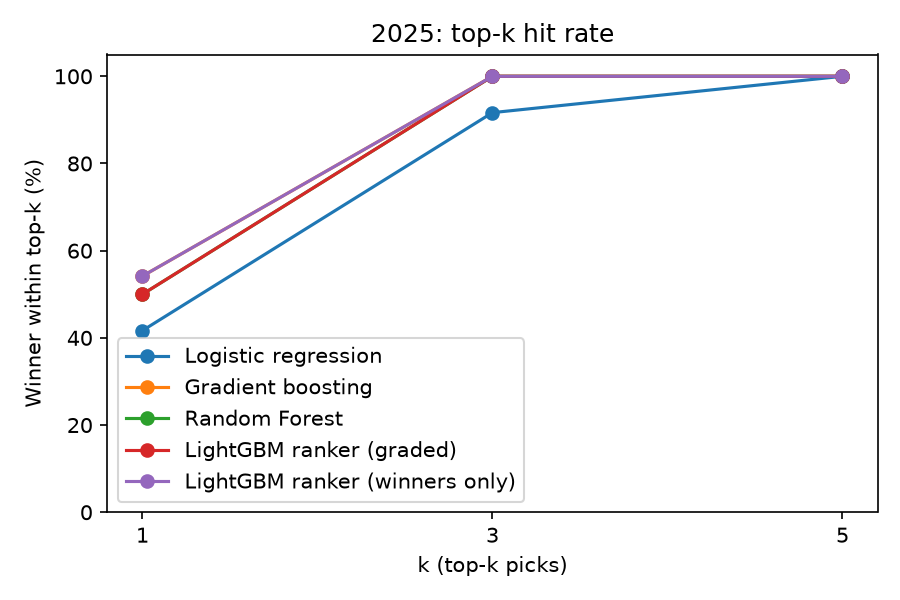
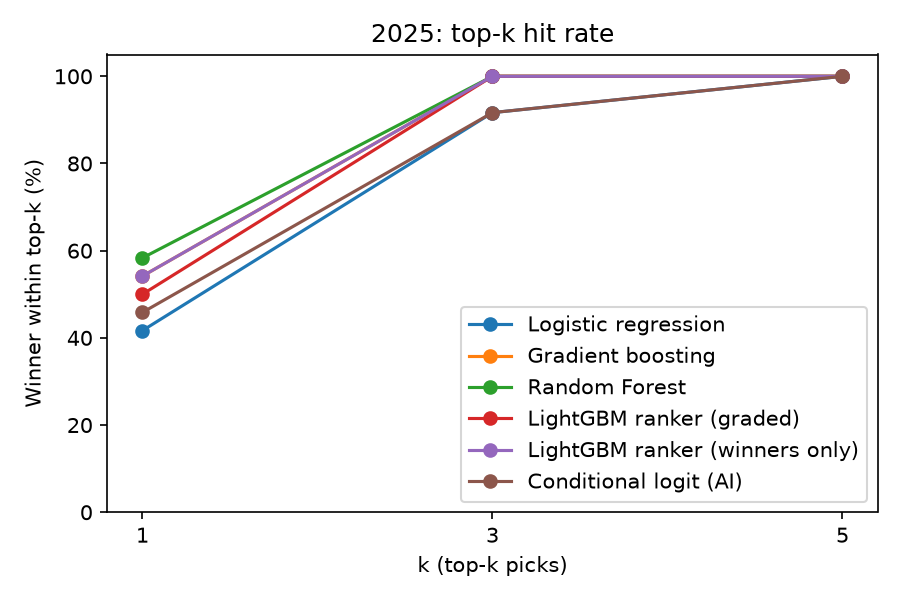
Add AI-generated conditional logit model
Add conditional_logit.py, a McFadden conditional logit that applies a
softmax over each race's field so win probabilities sum to 1 per race
by construction. The file was written by an AI assistant (Claude) and
is marked as such in its header, the comparison output and the README.

- Register the model in compare_models.py as "Conditional logit (AI)"
- Regenerate plots to include it
- Document method and results in the README (42/70, 60.0%, tied best)
- Fix .gitignore (trailing lines were UTF-16 encoded, so __pycache__
  was never ignored) and untrack the committed .pyc files

diff --git a/conditional_logit.py b/conditional_logit.py
@@ -1,0 +1,135 @@
+"""
+Conditional logit (McFadden choice model) for F1 race winners.
+
+============================================================================
+  AI-GENERATED FILE
+  This entire file was written by an AI assistant (Claude, by Anthropic,
+  via Claude Code), not by the repository owner. It was added on request
+  as an extra model for comparison. Review it like any third-party code.
+============================================================================
+
+Why this model?
+    The other classifiers in this project score every driver independently
+    ("does driver X win?") and only afterwards normalize the scores within a
+    race. A conditional logit models the actual question directly: *which one
+    driver out of this race's field wins?*
+
+        P(driver i wins race r) = exp(x_i . w) / sum_{j in r} exp(x_j . w)
+
+    The softmax is taken over the drivers of a single race, so the
+    probabilities sum to 100% per race by construction, and the model learns
+    from comparisons between drivers in the same race, not between drivers in
+    different races. There is no intercept: it would cancel out in the softmax.
+
+    The weights are fitted by maximum likelihood with an L2 penalty, using
+    L-BFGS and an analytic gradient. Only numpy and scipy are needed.
+
+Usage:
+    python conditional_logit.py     # multi-season backtest, same split as compare_models.py
+"""
+
+import numpy as np
+import pandas as pd
+from scipy.optimize import minimize
+from sklearn.impute import SimpleImputer
+from sklearn.preprocessing import StandardScaler
+
+from train_predictor import FEATURES
+
+DATA_PATH = "data/f1_features.csv"
+TEST_SEASONS = [2023, 2024, 2025]
+
+
+class ConditionalLogit:
+    """Softmax-within-race logit. AI-generated (see the file header)."""
+
+    def __init__(self, l2=1.0):
+        self.l2 = l2
+        self.imputer = SimpleImputer(strategy="median")
+        self.scaler = StandardScaler()
+        self.coef_ = None
+
+    def _design(self, frame, fit):
+        values = frame[FEATURES]
+        if fit:
+            return self.scaler.fit_transform(self.imputer.fit_transform(values))
+        return self.scaler.transform(self.imputer.transform(values))
+
+    @staticmethod
+    def _race_softmax(utility, race_codes, n_races):
+        # Subtract each race's max utility for numerical stability.
+        race_max = np.full(n_races, -np.inf)
+        np.maximum.at(race_max, race_codes, utility)
+        exp = np.exp(utility - race_max[race_codes])
+        race_sum = np.bincount(race_codes, weights=exp, minlength=n_races)
+        return exp / race_sum[race_codes], race_max, race_sum
+
+    def fit(self, train):
+        # Races without exactly one recorded winner carry no usable signal.
+        winners_per_race = train.groupby("race_id")["winner"].transform("sum")
+        train = train[winners_per_race == 1]
+
+        X = self._design(train, fit=True)
+        y = train["winner"].to_numpy(dtype=float)
+        race_codes, _ = pd.factorize(train["race_id"])
+        n_races = race_codes.max() + 1
+
+        def loss_and_grad(w):
+            utility = X @ w
+            prob, race_max, race_sum = self._race_softmax(utility, race_codes, n_races)
+            log_norm = race_max + np.log(race_sum)  # log-sum-exp per race
+            nll = log_norm.sum() - (y * utility).sum()
+            grad = X.T @ (prob - y)
+            return (nll + 0.5 * self.l2 * w @ w) / n_races, (grad + self.l2 * w) / n_races
+
+        result = minimize(loss_and_grad, np.zeros(X.shape[1]), jac=True, method="L-BFGS-B")
+        if not result.success:
+            raise RuntimeError(f"Conditional logit did not converge: {result.message}")
+        self.coef_ = result.x
+        return self
+
+    def predict(self, test):
+        scored = test.copy()
+        utility = self._design(test, fit=False) @ self.coef_
+        race_codes, _ = pd.factorize(test["race_id"])
+        prob, _, _ = self._race_softmax(utility, race_codes, race_codes.max() + 1)
+        scored["win_probability"] = prob
+        return scored
+
+
+def conditional_logit_predictor(l2=1.0):
+    """Adapter with the same (train, test) -> scored signature as compare_models.py."""
+    def run(train, test):
+        return ConditionalLogit(l2=l2).fit(train).predict(test)
+    return run
+
+
+def main():
+    data = pd.read_csv(DATA_PATH, parse_dates=["date"])
+    total_hits = total_races = 0
+
+    print("Conditional logit (AI-generated model), expanding-window backtest")
+    for season in TEST_SEASONS:
+        train = data[data["season"] < season]
+        test = data[data["season"] == season]
+        model = ConditionalLogit().fit(train)
+        scored = model.predict(test)
+
+        top_picks = (
+            scored.sort_values(["race_id", "win_probability", "grid_position"], ascending=[True, False, True])
+            .drop_duplicates("race_id", keep="first")
+        )
+        hits, n = int(top_picks["winner"].sum()), len(top_picks)
+        total_hits += hits
+        total_races += n
+        winner_prob = scored.loc[scored["winner"] == 1, "win_probability"].mean()
+        print(f"  {season}: {hits}/{n} ({hits / n:.1%}), avg prob on winner {winner_prob:.1%}")
+
+    print(f"  Total: {total_hits}/{total_races} ({total_hits / total_races:.1%})")
+    print("\nCoefficients from the last fit (standardized features; positive = higher value raises win chance):")
+    for name, coef in zip(FEATURES, model.coef_):
+        print(f"  {name:28s} {coef:+.3f}")
+
+
+if __name__ == "__main__":
+    main()

diff --git a/compare_models.py b/compare_models.py
@@ -7,6 +7,7 @@ from sklearn.preprocessing import StandardScaler
 
 from train_predictor import FEATURES, normalize_within_race
 from ranker import fit_ranker, predict_ranker
+from conditional_logit import conditional_logit_predictor  # AI-generated model
 
 DATA_PATH = "data/f1_features.csv"
 TEST_SEASONS = [2023, 2024, 2025]
@@ -52,7 +53,8 @@ def make_models():
             ))
         ])),
         "LightGBM ranker (graded)": ranker_predictor(RANKER_PARAMS, graded=True),
-        "LightGBM ranker (winners only)": ranker_predictor(RANKER_PARAMS, graded=False)
+        "LightGBM ranker (winners only)": ranker_predictor(RANKER_PARAMS, graded=False),
+        "Conditional logit (AI)": conditional_logit_predictor(l2=1.0),
     }
 
 

diff --git a/README.md b/README.md
@@ -4,7 +4,7 @@ Can a simple machine-learning model predict the winner of a Formula 1 race **bef
 
 This project downloads race results from the Jolpica-F1 API, builds leakage-free features, and compares several models with a time-aware evaluation on the 2023, 2024 and 2025 seasons.
 
-**Short answer:** not convincingly. Over 70 test races the best model (random forest, 60.0%) is one race ahead of the pole-sitter baseline (58.6%), which is well within noise. See [Results](#results).
+**Short answer:** not convincingly. Over 70 test races the best models (random forest and the AI-added conditional logit, both 60.0%) are one race ahead of the pole-sitter baseline (58.6%), which is well within noise. See [Results](#results).
 
 ## Data
 
@@ -33,7 +33,8 @@ Run the scripts in this order:
 | 3 | `python naive_baseline.py` | Prints the "always predict no winner" accuracy and the pole-sitter hit rate. |
 | 4 | `python train_predictor.py` | Trains one logistic-regression model, tests on 2025, prints the latest race's win probabilities. |
 | 5 | `python compare_models.py` | Compares all models over 2023, 2024 and 2025. |
-| 6 | `python plots.py` | Saves the plots in `plots/` (2025 season). |
+| 6 | `python conditional_logit.py` | 🤖 Runs only the AI-generated conditional-logit model and prints its coefficients. |
+| 7 | `python plots.py` | Saves the plots in `plots/` (2025 season). |
 
 ## Method
 
@@ -56,6 +57,7 @@ The rolling means use `shift(1)`, so a race never sees its own result (no data l
 - Random forest
 - LightGBM ranker with graded labels (1st/2nd/3rd get 3/2/1 relevance)
 - LightGBM ranker with winner-only labels
+- 🤖 **Conditional logit** (AI-generated, see [below](#-ai-generated-model-conditional-logit))
 
 The per-driver classifiers' probabilities are normalized within each race so they sum to 100%. For the rankers, scores go through a softmax within each race. These are **pseudo-probabilities, not calibrated ones**. Ties are broken by grid position.
 
@@ -73,13 +75,14 @@ Top-pick hit rate (winner correctly predicted):
 | Random forest | 18 (81.8%) | 10 (41.7%) | 14 (58.3%) | **42 (60.0%)** |
 | LightGBM ranker (graded) | 16 (72.7%) | 12 (50.0%) | 12 (50.0%) | **40 (57.1%)** |
 | LightGBM ranker (winners only) | 17 (77.3%) | 9 (37.5%) | 13 (54.2%) | **39 (55.7%)** |
+| 🤖 Conditional logit (AI) | 19 (86.4%) | 12 (50.0%) | 11 (45.8%) | **42 (60.0%)** |
 
 ### What the numbers say
 
-- **No model clearly beats the pole-sitter.** The best (random forest) is one race ahead over 70 races. The differences between models are 1–5 races, which is noise at this sample size.
+- **No model clearly beats the pole-sitter.** The best (random forest and conditional logit, tied) are one race ahead over 70 races. The differences between models are 1–5 races, which is noise at this sample size.
 - **The ranking changes every season.** Logistic regression is the best model in 2023 and the worst in 2025. A single season is not enough to pick a winner, which is why the comparison uses three.
 - **Season character matters.** 2023 was dominated by one team, which makes the "recent form" features very informative; in 2024 and 2025 the winners were spread across teams and every method gets harder.
-- **The top-3 is much easier than the top-1.** In 2025 the actual winner was inside the model's top 3 in 100% of races for most models (91.7% for logistic regression), see `plots/top_k.png`. The hard part is separating the best candidate from the next two.
+- **The top-3 is much easier than the top-1.** In 2025 the actual winner was inside the model's top 3 in 100% of races for most models (91.7% for logistic regression and the conditional logit), see `plots/top_k.png`. The hard part is separating the best candidate from the next two.
 - **The simplest model is competitive.** Logistic regression ties the pole-sitter overall, so more complex models are not justified by this data.
 
 ### Plots (2025 season)
@@ -95,6 +98,18 @@ Top-pick hit rate (winner correctly predicted):
 **Winner within the top-k predictions**
 
 ![Top-k](plots/top_k.png)
+
+## 🤖 AI-generated model: conditional logit
+
+> **Disclosure:** this model (`conditional_logit.py`) and this README section were written by an AI assistant (Claude, by Anthropic, through Claude Code), not by the project author. The file has a header that says so, and the model is labelled "(AI)" in the comparison output and plots.
+
+**Idea.** The other classifiers ask "does this driver win?" for each driver on their own and normalize the scores afterwards. A conditional logit (McFadden's discrete-choice model) asks the real question: *which one driver in this race wins?*
+
+$$P(\text{driver } i \text{ wins race } r) = \frac{e^{x_i \cdot w}}{\sum_{j \in r} e^{x_j \cdot w}}$$
+
+The softmax runs over a single race's field, so the probabilities add up to 100% per race by construction, and the model learns only from comparisons between drivers in the same race. The weights are fitted by L2-regularized maximum likelihood (L-BFGS, analytic gradient) on the same median-imputed, standardized features as the other models. It only needs numpy and scipy.
+
+**Result.** 42/70 (60.0%), tied with the random forest for the best total and one race ahead of the pole-sitter. That is still noise at this sample size. It gives the highest average probability to the actual winner in 2023 (65.0%) and 2024 (33.8%). In 2025, like plain logistic regression, it does worse than the tree models. Its coefficients are easy to read: the 2025 fit weights grid position (−1.53) and the driver's recent points (+1.02) most heavily.
 
 ## Limitations
 
@@ -122,6 +137,7 @@ train_predictor.py   # single-model training + shared helpers
 ranker.py            # LightGBM learning-to-rank helpers
 compare_models.py    # multi-season model comparison
 plots.py             # figures in plots/
+conditional_logit.py # 🤖 AI-generated conditional-logit (softmax-within-race) model
 ```
 
 ## Acknowledgements
